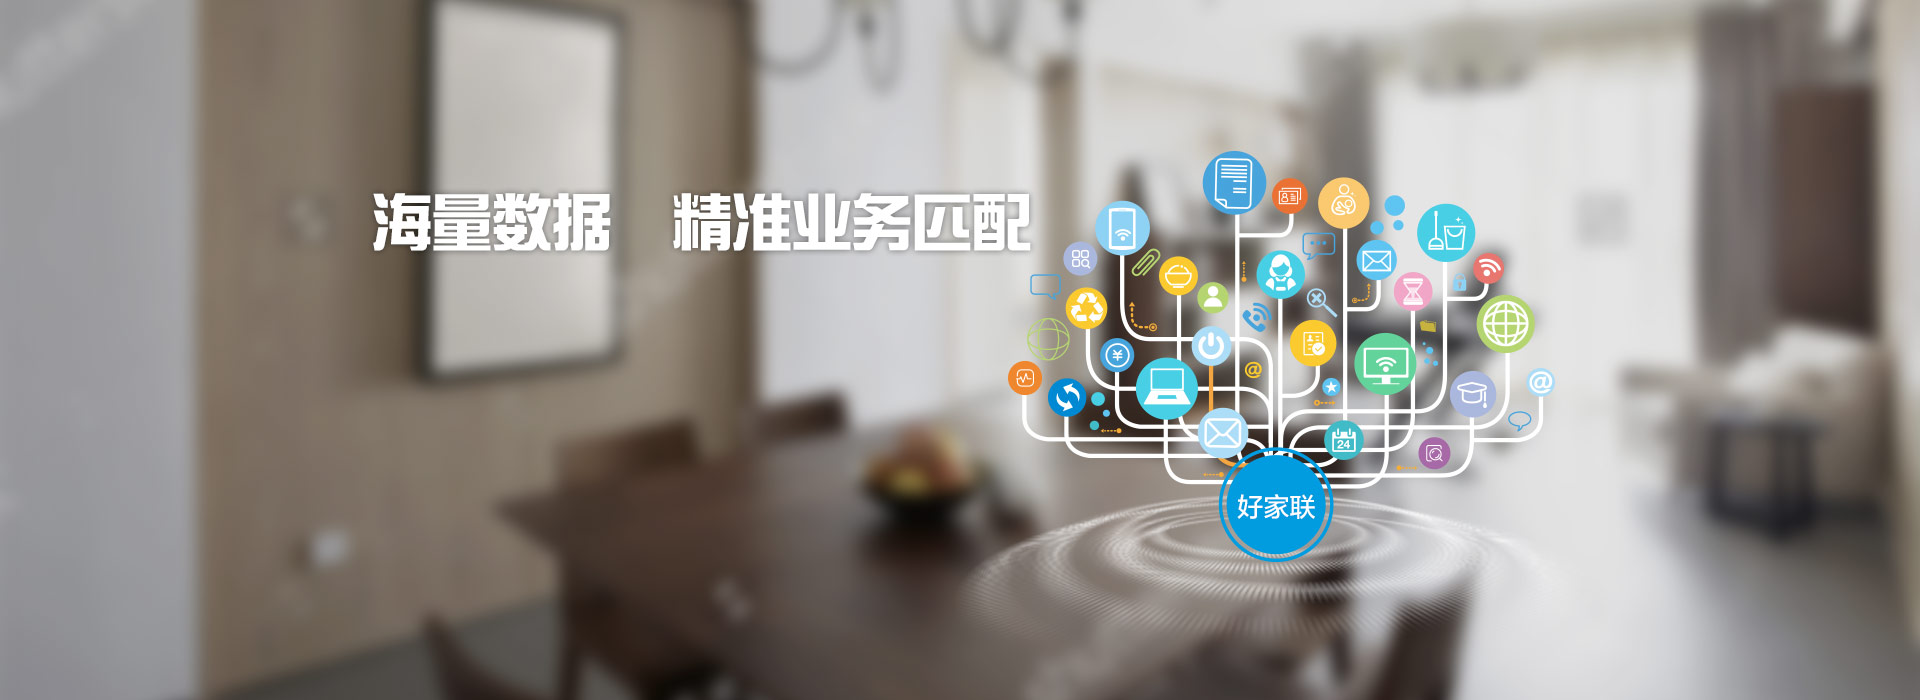
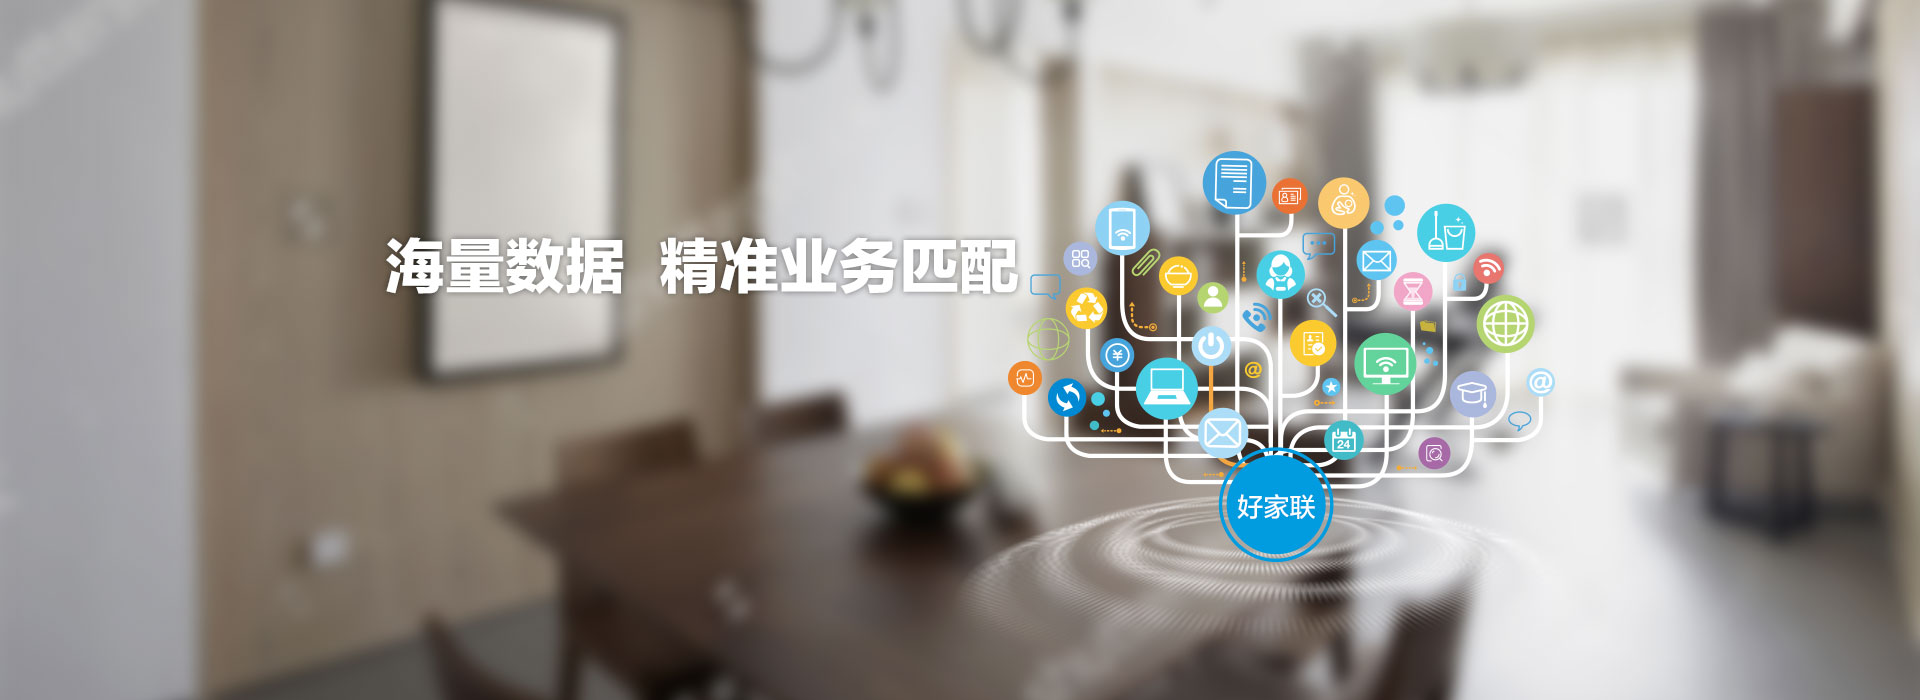
文字，图案update

Changed region(s): [[0.1875, 0.27, 0.5312, 0.42]]

diff --git a/public/css/page.css b/public/css/page.css
@@ -79,25 +79,58 @@
 .icon-arrow-r {
 	background: url('../image/web-icon.png') -47px -185px;
 }
+// .compare {
+// 	border: 1px solid #dcdcdc;
+// }
 .compare {
-	border: 1px solid #dcdcdc;
+	margin-top: 100px;
+}
+.compare td {
+	border-bottom: 1px dashed #dcdcdc;
 }
 .compare thead td {
 	font-size: 28px;
 	padding: 5px;
 }
-.compare td {
-	width: 540px;
+.compare tbody td:first-child {
+	width: 430px;
 	height: 70px;
-	border: 1px dashed #dcdcdc;
+}
+.compare tbody td:last-child {
+	width: 430px;
+	height: 70px;
 }
 .icon-vs {
 	display: inline-block;
-	width: 94px;
-	height: 94px;
-	top: 236px;
-	left: 552px;
-	background: url('../image/web-icon.png') -321px -102px;
+	width: 224px;
+	height: 148px;
+	top: 64px;
+	left: 482px;
+	background: url('../image/web-icon.png') -20px -389px;
+}
+.compare-number {
+	display: inline-block;
+	width: 28px;
+	height: 30px;
+	background: url('../image/web-icon.png');
+}
+.cnum1 {
+	background-position: -20px -338px;
+}
+.cnum2 {
+	background-position: -56px -338px;
+}
+.cnum3 {
+	background-position: -94px -340px;
+}
+.cnum4 {
+	background-position: -130px -338px;
+}
+.cnum5 {
+	background-position: -168px -338px;
+}
+.cnum6 {
+	background-position: -204px -340px;
 }
 .bg {
 	width: 100%;
@@ -109,18 +142,18 @@
 .know-more {
 	display: inline-block;
 	padding: 10px 30px;
-	background: #fff;
-	color: #459ce6;
+	background: #459ce6;
+	color: #fff;
 	border-radius: 5px;
 }
 .know-more:hover {
-	background: #459ce6;
-	color: #fff;
+	background: #fff;
+	color: #459ce6;
 }
 .features li {
 	display: inline-block;
-	float: left;
-	margin: 0 30px 50px;
+	margin: 0 28px 50px;
+	vertical-align: middle;
 }
 .features div {
 	width: 336px;
@@ -135,27 +168,34 @@
 	display: inline-block;
 	width: 30px;
 	height: 50px;
+	background: url('../image/web-icon.png');
 }
 .num1 {
-	background: url('../image/web-icon.png') -130px -215px;
+	background-position: -130px -215px;
 }
 .num2 {
-	background: url('../image/web-icon.png') -172px -214px;
+	background-position: -172px -214px;
 }
 .num3 {
-	background: url('../image/web-icon.png') -221px -214px;
+	background-position: -221px -214px;
 }
 .num4 {
-	background: url('../image/web-icon.png') -268px -214px;
+	background-position: -268px -214px;
 }
 .num5 {
-	background: url('../image/web-icon.png') -316px -214px;
+	background-position: -316px -214px;
 }
 .num6 {
-	background: url('../image/web-icon.png') -362px -214px;
+	background-position: -362px -214px;
 }
 .safe-bg {
 	background: url('../image/safe-bg.jpg') no-repeat center;
+}
+.steal {
+	display: inline-block;
+	width: 154px;
+	height: 154px;
+	background: url('../image/web-icon.png') -252px -318px;
 }
 .title-l {
 	display: inline-block;

diff --git a/public/css/common.css b/public/css/common.css
@@ -56,10 +56,10 @@ body {
 }
 
 /* 标签 */
-body {
-    font-family: 'Lantinghei SC', 'Open Sans', Arial, 'Hiragino Sans GB', 'Microsoft YaHei', '微软雅黑', STHeiti, 'WenQuanYi Micro Hei', SimSun, sans-serif;
-    color: #333;
-}
+// body {
+//     font-family: 'Lantinghei SC', 'Open Sans', Arial, 'Hiragino Sans GB', 'Microsoft YaHei', '微软雅黑', STHeiti, 'WenQuanYi Micro Hei', SimSun, sans-serif;
+//     color: #333;
+// }
 a {
 	text-decoration: none;
 }
@@ -101,6 +101,9 @@ h5 {
 .light-grey {
 	color: #999;
 }
+.orange {
+	color: #F7C48C;
+}
 .blue {
 	color: #459ce6;
 }
@@ -123,6 +126,9 @@ h5 {
 }
 .font20 {
 	font-size: 20px;
+}
+.font22 {
+	font-size: 22px;
 }
 .font24 {
 	font-size: 24px;

diff --git a/templates/index.twig.php b/templates/index.twig.php
@@ -23,10 +23,10 @@
 			<a class="active" href="#">首页</a>    
 		</li>
 		<li>
-			<a href="#">家政故事</a>    
+			<a href="#">门店服务</a>    
 		</li>
 		<li>
-			<a href="#">商家服务</a>    
+			<a href="#">家政故事</a>    
 		</li>
 		<li>
 			<a href="#">资源合作</a>    
@@ -73,7 +73,7 @@
 <!--需求分类start-->
 <div class="content container">
 	<div class="text-center">
-		<h2>无人干预快速成交</h2>
+		<h2>找好阿姨不再是难事</h2>
 		<p class="light-blue font18">家政生意不再难做 无人干预快速成交</p>
 	</div>
 	<br>
@@ -121,34 +121,44 @@
 	</table>
 	<div class="relative" style="padding: 60px 60px 0">
 		<i class="icon-vs absolute"></i>
-		<table class="compare text-center">
+		<table class="compare">
 			<thead>
 				<tr>
-					<td>传统家政平台</td>
-					<td>好家联平台</td>
+					<td width="540" class="text-right">传统家政&nbsp;&nbsp;&nbsp;&nbsp;&nbsp;&nbsp;</td>
+					<td width="0"></td>
+					<td width="540">&nbsp;&nbsp;&nbsp;&nbsp;&nbsp;&nbsp;“好家联”在线平台</td>
 				</tr>
 			</thead>
-			<tbody class="mid-grey">
+			<tbody>
 				<tr>
-					<td>仅满足顾客‘单方’提出选人需求</td>
-					<td>顾客及家政员双方需求配对</td>
+					<td class="text-right orange">线下实体店耗时耗力，可选择阿姨有限</td>
+					<td class="text-center" width="220"><i class="compare-number cnum1"></i></td>
+					<td class="light-blue">在线海量选阿姨，手机端签约支付</td>
 				</tr>
 				<tr>
-					<td>优质阿姨在线，线下发配闲置阿姨</td>
-					<td>真实阿姨在线，所选即所得<br>
-					<span class="font12">（阿姨确认能上单，方能在线搜索）</span></td>
+					<td class="text-right orange">看中的阿姨总约不到？</td>
+					<td class="text-center"><i class="compare-number cnum2"></i></td>
+					<td class="light-blue">真实阿姨在线，实时反馈</td>
 				</tr>
 				<tr>
-					<td>网上下单、人工对接</td>
-					<td>全智能化精准匹配  无人工干预</td>
+					<td class="text-right orange">仅从顾客单方需求找家政员，雇佣更换频繁</td>
+					<td class="text-center"><i class="compare-number cnum3"></i></td>
+					<td class="light-blue">雇佣双方需求大数据配对，找到最合适自己的家政员</td>
 				</tr>
 				<tr>
-					<td>传统在线简历照片</td>
-					<td>颠覆上门面试，45″在线视屏选人</td>
+					<td class="text-right orange">直接上岗</td>
+					<td class="text-center"><i class="compare-number cnum4"></i></td>
+					<td class="light-blue">匹配技能自动生成纸质承诺书上岗，服务如有落差有据可依保障顾客利益</td>
 				</tr>
 				<tr>
-					<td>阿姨想来就来，说走就走</td>
-					<td>智能换人调单，杜绝服务空窗期</td>
+					<td class="text-right orange">照片在线选人，另排时间不断上门面试</td>
+					<td class="text-center"><i class="compare-number cnum5"></i></td>
+					<td class="light-blue">45″在线视频选人，手机端看人选人</td>
+				</tr>
+				<tr>
+					<td class="text-right orange">阿姨突然“走人”，服务遭遇“真空期”</td>
+					<td class="text-center"><i class="compare-number cnum6"></i></td>
+					<td class="light-blue">一键智能换人调单，后续服务无缝对接</td>
 				</tr>
 			<tbody>
 		</table>
@@ -161,7 +171,7 @@
 	<div class="content container clearfix">
 		<div class="fl" style="padding: 60px 0">
 			<h2>三大平台支撑 家政生意不再难做</h2> 
-			<h3>Service details</h3>
+			<p class="font18 light-blue">Easy housekeeping business thourgh our 3 Sub-systems</p>
 			<p style="line-height: 36px; margin-top: 45px">
 			好家联是一个基于互联网技术的家政服务链一站式服务平台，致力于解决家政业<br>
 			管理运营粗放、工作效率低下、信息共享不足、资源融合有限等一系列的家政服<br>
@@ -182,41 +192,51 @@
 		<li>
 			<div>
 				<i class="number num1"></i>
-				<h3>提升业务成交量</h3>
-				<span class="mid-grey">有单子没阿姨？</span>
+				<h3>线上渠道拓宽</h3>
+				<span class="mid-grey">入驻就送”微店“</span>
 				<br>
-				<span class="mid-grey">有阿姨没单子？</span>
+				<span class="mid-grey">线上业务轻松接入</span>
 			</div>
 		</li>
 		<li>
 			<div>
 				<i class="number num2"></i>
-				<h3>全方位业务升级</h3>
-				<span class="mid-grey">帮助实现单店智能管理平台搭建，运营</span>
+				<h3>提升成交业务量</h3>
+				<span class="mid-grey">精准匹配</span>
+				<br>
+				<span class="mid-grey">成交签约率显著提升</span>
 			</div>
 		</li>
 		<li>
 			<div>
 				<i class="number num3"></i>
 				<h3>提高管理能力</h3>
-				<span class="mid-grey">客户、阿姨动态随时掌握</span>
+				<span class="mid-grey">顾客、家政员服务动态实时掌握</span>
+				<br>
+				<span class="mid-grey">规避飞单，丢单的现象</span>
 			</div>
 		</li>
 		<li style="margin-bottom: 0">
 			<div>
 				<i class="number num4"></i>
-				<h3>提升客户口碑</h3>
-				<span class="mid-grey">精准配对 双方满意</span>
+				<h3>赢得顾客口碑</h3>
+				<span class="mid-grey">智能选人、规范管理、售后监管，雇佣</span>
+				<br>
+				<span class="mid-grey">双方体验得到双重提升，客户接近0投诉</span>
 			</div>
 		</li>
 		<li style="margin-bottom: 0">
 			<div>
 				<i class="number num5"></i>
-				<h3>降低运营成本</h3>
-				<span class="mid-grey">免费线上找业务， 再无淡旺季之分</span>
+				<h3>信息安全保障</h3>
+				<span class="mid-grey">交易过程全智能无人工干预，隐私数据</span>
+				<br>
+				<span class="mid-grey">保密；保证业务量在安全、公平的环境</span>
+				<br>
+				<span class="mid-grey">下的持续增长</span>
 			</div>
 		</li>
-		<li style="margin-bottom: 0">
+		<!-- <li style="margin-bottom: 0">
 			<div>
 				<i class="number num6"></i>
 				<h3>公开透明、无人工干预</h3>
@@ -224,21 +244,20 @@
 				<br>
 				<span class="mid-grey">签约保障商家数据安全</span>
 			</div>
-		</li>
+		</li> -->
 	</ul>
 </div>
 <!--6个特点end-->
 
 <!--安全保障start-->
 <div class="bg safe-bg">
-	<div class="content container white text-center">
-		<h2>资源共享安全有保障 Goodbye to“偷单”“偷人” </h2> 
-		<br>
-		<p class="font18" style="letter-spacing: 2px">
-		B端看得为什么选择我们？需要先有个我们的工作环，B端工作环，或者该交易模式<br>首先知道我们做什么。然后这段必须有主题：家政生意不再难做，无人工干预快速<br>成交
+	<div class="content container white text-center" style="padding-top: 10px">
+		<p class="steal" style="margin-bottom: 0"></p>
+		<h2>资源共享安全有保障</h2> 
+		<p class="font22" style="letter-spacing: 2px; font-weight: 100">
+		我们打破传统家政的“信任壁垒”，全系统实现全智能自动化<br>交易让各家政公司在保障安全、公平的条件下快速提高成交量
 		</p>
-		<br>
-		<img src="{{baseUrl}}/image/safe-icon.png">
+		<img src="{{baseUrl}}/image/safe-icon.png" style="width: 46%">
 	</div>
 </div>
 <!--安全保障end-->
